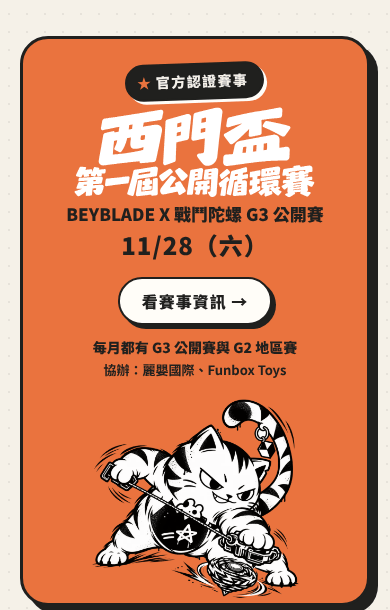
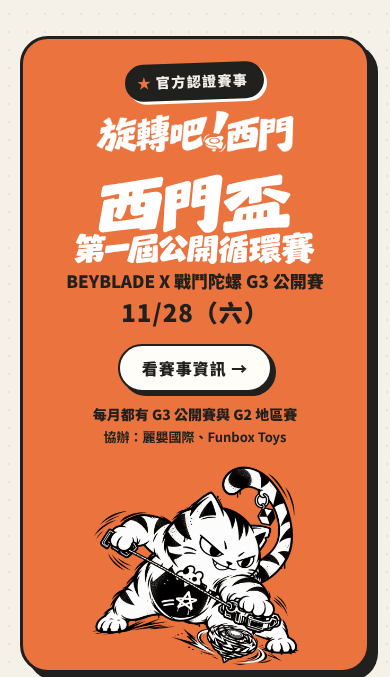
Give the 旋轉吧！西門 event name top billing
- /cup/ hero: orange 旋轉吧！西門 wordmark with an 活動 tag above the
  Ximen Cup title card, replacing the small 系列活動 line.
- /cup/ header: 攤玩市集 × 旋轉吧！西門 (black wordmark), sized per
  breakpoint so the nav and home button still fit.
- Homepage banner: white wordmark above the Ximen Cup card.
- /cup/ title, description, og:title and twitter:title lead with
  旋轉吧！西門; og-cup.png regenerated with the wordmark (1200x630).
- New styles live in their own blocks; existing font sizes untouched.

Claude-Session: https://claude.ai/code/session_012dQHuckgmktwtxDEBvdD1o

Changed region(s): [[0.0308, 0.0311, 0.9846, 0.9967], [0.0615, 0.9656, 0.1231, 0.9967], [0.8923, 0.9656, 0.9231, 0.9967]]

diff --git a/cup/index.html b/cup/index.html
@@ -4,8 +4,8 @@
   <meta charset="utf-8">
   <meta name="viewport" content="width=device-width, initial-scale=1">
 
-  <title>西門盃 第一屆公開循環賽｜BEYBLADE X 戰鬥陀螺 G3 公開賽 11/28（六）｜攤玩市集</title>
-  <meta name="description" content="西門盃 第一屆公開循環賽（G3 官方認證賽事），2026/11/28（六）在西門町電影公園舉行。限 12 歲以上，名額 128 人，報名費每人 NT$250，觀賽免費。報名即將開放。每月舉辦 G3／G2 官方認證賽事。">
+  <title>旋轉吧！西門｜西門盃 第一屆公開循環賽 BEYBLADE X 戰鬥陀螺 G3 公開賽 11/28（六）｜攤玩市集</title>
+  <meta name="description" content="旋轉吧！西門｜西門盃 第一屆公開循環賽（G3 官方認證賽事），2026/11/28（六）在西門町電影公園舉行。限 12 歲以上，名額 128 人，報名費每人 NT$250，觀賽免費。報名即將開放。每月舉辦 G3／G2 官方認證賽事。">
   <meta name="theme-color" content="#F5F1E8">
   <link rel="canonical" href="https://tanwanmarket.com/cup/">
 
@@ -13,15 +13,15 @@
   <meta property="og:type" content="website">
   <meta property="og:locale" content="zh_TW">
   <meta property="og:site_name" content="攤玩市集">
-  <meta property="og:title" content="西門盃 第一屆公開循環賽｜BEYBLADE X 戰鬥陀螺 G3 公開賽">
+  <meta property="og:title" content="旋轉吧！西門｜西門盃 第一屆公開循環賽 BEYBLADE X 戰鬥陀螺 G3 公開賽">
   <meta property="og:description" content="2026/11/28（六）西門町電影公園｜G3 官方認證賽事，名額 128 人，觀賽免費。報名即將開放。">
   <meta property="og:url" content="https://tanwanmarket.com/cup/">
   <meta property="og:image" content="https://tanwanmarket.com/assets/cup/og-cup.png">
   <meta property="og:image:width" content="1200">
   <meta property="og:image:height" content="630">
-  <meta property="og:image:alt" content="西門盃 第一屆公開循環賽字卡與發射戰鬥陀螺的攤玩貓">
+  <meta property="og:image:alt" content="旋轉吧！西門字標、西門盃 第一屆公開循環賽字卡與發射戰鬥陀螺的攤玩貓">
   <meta name="twitter:card" content="summary_large_image">
-  <meta name="twitter:title" content="西門盃 第一屆公開循環賽｜BEYBLADE X 戰鬥陀螺 G3 公開賽">
+  <meta name="twitter:title" content="旋轉吧！西門｜西門盃 第一屆公開循環賽 BEYBLADE X 戰鬥陀螺 G3 公開賽">
   <meta name="twitter:description" content="2026/11/28（六）西門町電影公園｜G3 官方認證賽事，報名即將開放。">
   <meta name="twitter:image" content="https://tanwanmarket.com/assets/cup/og-cup.png">
 
@@ -39,9 +39,13 @@
 
   <header class="site-header">
     <div class="container header-inner">
-      <a class="header-logo" href="../" aria-label="回攤玩市集首頁">
-        <img src="../assets/logo-black.png" alt="攤玩市集" width="1200" height="391">
-      </a>
+      <div class="cup-brand">
+        <a class="header-logo" href="../" aria-label="回攤玩市集首頁">
+          <img src="../assets/logo-black.png" alt="攤玩市集" width="1200" height="391">
+        </a>
+        <span class="cup-brand-x" aria-hidden="true">×</span>
+        <img class="cup-brand-event" src="../assets/cup/spin-ximen-black.webp" alt="旋轉吧！西門" width="1200" height="346">
+      </div>
       <nav class="header-nav" aria-label="賽事選單">
         <ul>
           <li><a href="#when">時間地點</a></li>
@@ -62,7 +66,10 @@
     <section class="cup-hero" id="top">
       <div class="container cup-hero-inner">
         <div class="cup-hero-text">
-          <p class="cup-series">旋轉吧！西門 系列活動</p>
+          <div class="cup-event">
+            <span class="cup-event-label">活動</span>
+            <img class="cup-event-logo" src="../assets/cup/spin-ximen-orange.webp" alt="旋轉吧！西門" width="1200" height="346" fetchpriority="high">
+          </div>
           <h1 class="cup-title">
             <picture>
               <source srcset="../assets/cup/ximen-cup-black.svg" type="image/svg+xml">

diff --git a/cup/cup.css b/cup/cup.css
@@ -6,6 +6,47 @@
 .cup-page .header-nav a,
 .cup-page .header-inner .btn { white-space: nowrap; }
 
+/* ---------- 旋轉吧！西門 活動字標（頁首、主視覺） ---------- */
+.cup-brand { display: flex; align-items: center; gap: 6px; flex: none; }
+.cup-brand .header-logo,
+.cup-brand-event { flex: none; }
+.cup-brand .header-logo img { width: 72px; }
+.cup-brand-x { font-weight: 900; font-size: 1rem; line-height: 1; }
+.cup-brand-event { width: 80px; }
+.cup-event {
+  display: flex;
+  flex-direction: column;
+  align-items: center;
+  gap: 4px;
+  margin-bottom: 4px;
+}
+.cup-event-label {
+  padding: 0 12px;
+  background: var(--ink);
+  color: var(--paper);
+  border-radius: 999px;
+  font-weight: 900;
+  font-size: .9375rem;
+  letter-spacing: .2em;
+}
+.cup-event-logo { width: min(76%, 420px); }
+@media (min-width: 960px) {
+  .cup-brand { gap: 8px; }
+  .cup-brand .header-logo img { width: 92px; }
+  .cup-brand-event { width: 104px; }
+  .cup-page .header-inner { gap: 10px; }
+  .cup-page .header-nav a { padding: 6px 8px; }
+  .cup-event { flex-direction: row; align-items: center; gap: 14px; }
+  .cup-event-logo { width: min(72%, 420px); }
+}
+
+@media (min-width: 1200px) {
+  .cup-brand { gap: 12px; }
+  .cup-brand .header-logo img { width: 120px; }
+  .cup-brand-event { width: 140px; }
+  .cup-page .header-nav a { padding: 6px 12px; }
+}
+
 /* ---------- 主視覺 ---------- */
 .cup-hero {
   position: relative;
@@ -26,13 +67,6 @@
   align-items: center;
 }
 .cup-hero-text { text-align: center; }
-.cup-series {
-  margin: 0 0 6px;
-  color: var(--orange-ink);
-  font-weight: 900;
-  font-size: .875rem;
-  letter-spacing: .15em;
-}
 .cup-title { margin: 0; }
 .cup-title img { width: min(100%, 560px); margin: 0 auto; }
 .cup-hero .cup-badge { margin-top: 10px; box-shadow: 3px 3px 0 var(--orange); }

diff --git a/index.html b/index.html
@@ -97,6 +97,7 @@
           <div class="cup-promo-text">
             <p class="cup-badge">官方認證賽事</p>
             <p class="cup-promo-title">
+              <img class="cup-promo-event" src="assets/cup/spin-ximen-white.webp" alt="旋轉吧！西門" width="1200" height="346" loading="lazy">
               <picture>
                 <source srcset="assets/cup/ximen-cup-white.svg" type="image/svg+xml">
                 <img src="assets/cup/ximen-cup-white.webp" alt="西門盃 第一屆公開循環賽" width="1200" height="400" loading="lazy">

diff --git a/styles.css b/styles.css
@@ -339,6 +339,9 @@ a { color: inherit; }
 .header-nav .nav-cup a { background: var(--orange); border: 2px solid var(--ink); padding: 4px 12px; }
 .header-nav .nav-cup a:hover { background: var(--orange); }
 
+/* ---------- 旋轉吧！西門 活動字標（首頁橫幅） ---------- */
+.cup-promo-title .cup-promo-event { width: min(72%, 320px); margin: 0 auto 4px; }
+
 /* ---------- sections ---------- */
 .section { padding: 64px 0; }
 .section-alt {
